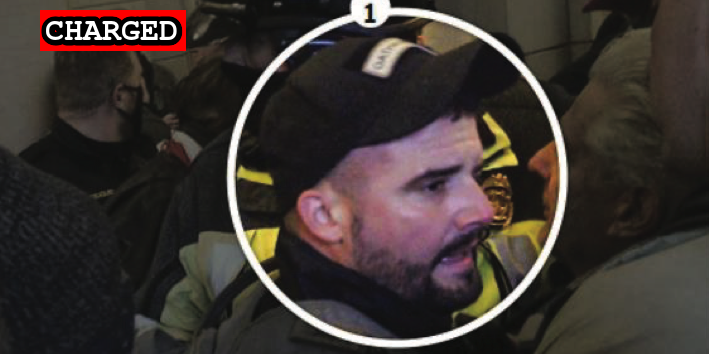
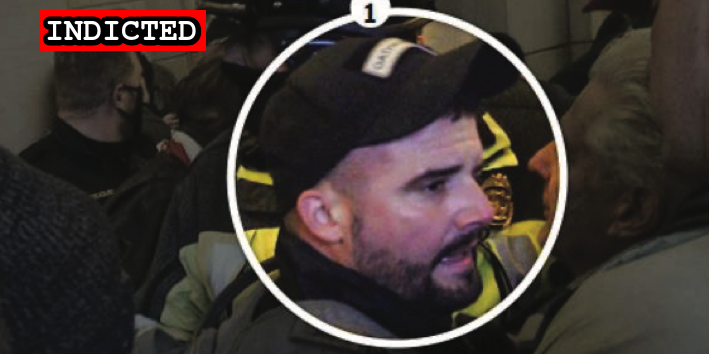
Indictment

Changed region(s): [[0.031, 0.0311, 0.3103, 0.1554]]

diff --git a/docs/_suspects/joshua-james.md b/docs/_suspects/joshua-james.md
@@ -3,13 +3,14 @@ name: Joshua James
 lastName: James
 aka:
 residence: Alabama
-status: Charged
+status: Indicted
 date: 2021-03-08
 charged: 2021-03-08
-indicted:
-convicted: 
-sentenced: 
-dismissed: 
+indicted: 2021-05-26
+convicted:
+sentenced:
+dismissed:
+deceased:
 age: 33
 occupation:
 affiliations: Oath Keepers, Proud Boys
@@ -29,6 +30,8 @@ layout: suspect
 published: true
 charges:
 ---
+
 - [News Report](https://www.nbcnews.com/news/us-news/alabama-man-ties-oath-keepers-militia-arrested-connection-capitol-riot-n1260499)
 - [Statement of Facts](https://extremism.gwu.edu/sites/g/files/zaxdzs2191/f/Joshua%20James%20Statement%20of%20Facts.pdf)
 - [Government Opposition to Reconsideration of Release](https://extremism.gwu.edu/sites/g/files/zaxdzs2191/f/Joshua%20James%20Govt%20Opposition%20to%20Defendants%20Motion%20for%20Revocation%20of%20Detention%20Order.pdf)
+- [Indictment](https://www.justice.gov/usao-dc/case-multi-defendant/file/1410391/download)

diff --git a/docs/_suspects/suzanne-ianni.md b/docs/_suspects/suzanne-ianni.md
@@ -8,8 +8,9 @@ date: 2021-01-19
 charged: 2021-01-19
 indicted:
 convicted: 
-sentenced: 
+sentenced:
 dismissed: 
+deceased:
 age: 59
 occupation:
 affiliations: Super Happy Fun America (anti-LQBTQ group)
@@ -40,3 +41,4 @@ charges:
 - [FBI Statement (Twitter)](https://twitter.com/FBIBoston/status/1351560718915612672?s=20)
 - [Complaint](https://www.justice.gov/opa/page/file/1357016/download)
 - [Statement of Facts](https://www.justice.gov/opa/page/file/1357021/download)
+- [Information](https://www.justice.gov/usao-dc/case-multi-defendant/file/1410371/download)

diff --git a/docs/_suspects/jonathan-pollock.md b/docs/_suspects/jonathan-pollock.md
@@ -2,7 +2,7 @@
 name: Jonathan Pollock
 lastName: Pollock
 aka:
-residence:
+residence: Florida
 status: Indicted
 date: 2021-07-07
 charged: 2021-07-07
@@ -30,6 +30,6 @@ layout: suspect
 published: true
 charges:
 ---
-
 - [News Story](https://twitter.com/MacFarlaneNews/status/1412898239695790086)
 - [Indictment](https://www.justice.gov/usao-dc/case-multi-defendant/file/1410341/download)
+- [Statement of Facts](https://extremism.gwu.edu/sites/g/files/zaxdzs2191/f/Pollock%20et%20al%20Affidavit%20in%20Support%20of%20Criminal%20Complaint.pdf)

diff --git a/docs/_suspects/john-juran.md b/docs/_suspects/john-juran.md
@@ -8,8 +8,9 @@ date: 2021-04-21
 charged: 2021-04-21
 indicted:
 convicted: 
-sentenced: 
+sentenced:
 dismissed: 
+deceased:
 age: 51
 occupation:
 affiliations:
@@ -31,3 +32,4 @@ charges:
 ---
 - [News Report](https://lawandcrime.com/u-s-capitol-siege/feds-arrest-new-york-man-seen-wearing-trump-2020-cowboy-hat-during-u-s-capitol-breach/)
 - [Statement of Facts](https://www.justice.gov/usao-dc/case-multi-defendant/file/1395351/download)
+- [Information](https://www.justice.gov/usao-dc/case-multi-defendant/file/1410416/download)

diff --git a/docs/_suspects/joseph-hutchinson.md b/docs/_suspects/joseph-hutchinson.md
@@ -2,7 +2,7 @@
 name: Joseph Hutchinson
 lastName: Hutchinson
 aka:
-residence:
+residence: Florida
 status: Indicted
 date: 2021-07-07
 charged: 2021-07-07
@@ -30,7 +30,6 @@ layout: suspect
 published: true
 charges:
 ---
-
 - [News Story](https://twitter.com/MacFarlaneNews/status/1412898245353869319)
 - [Indictment](https://www.justice.gov/usao-dc/case-multi-defendant/file/1410341/download)
 - [Statement of Facts](https://www.justice.gov/usao-dc/case-multi-defendant/file/1410336/download)
